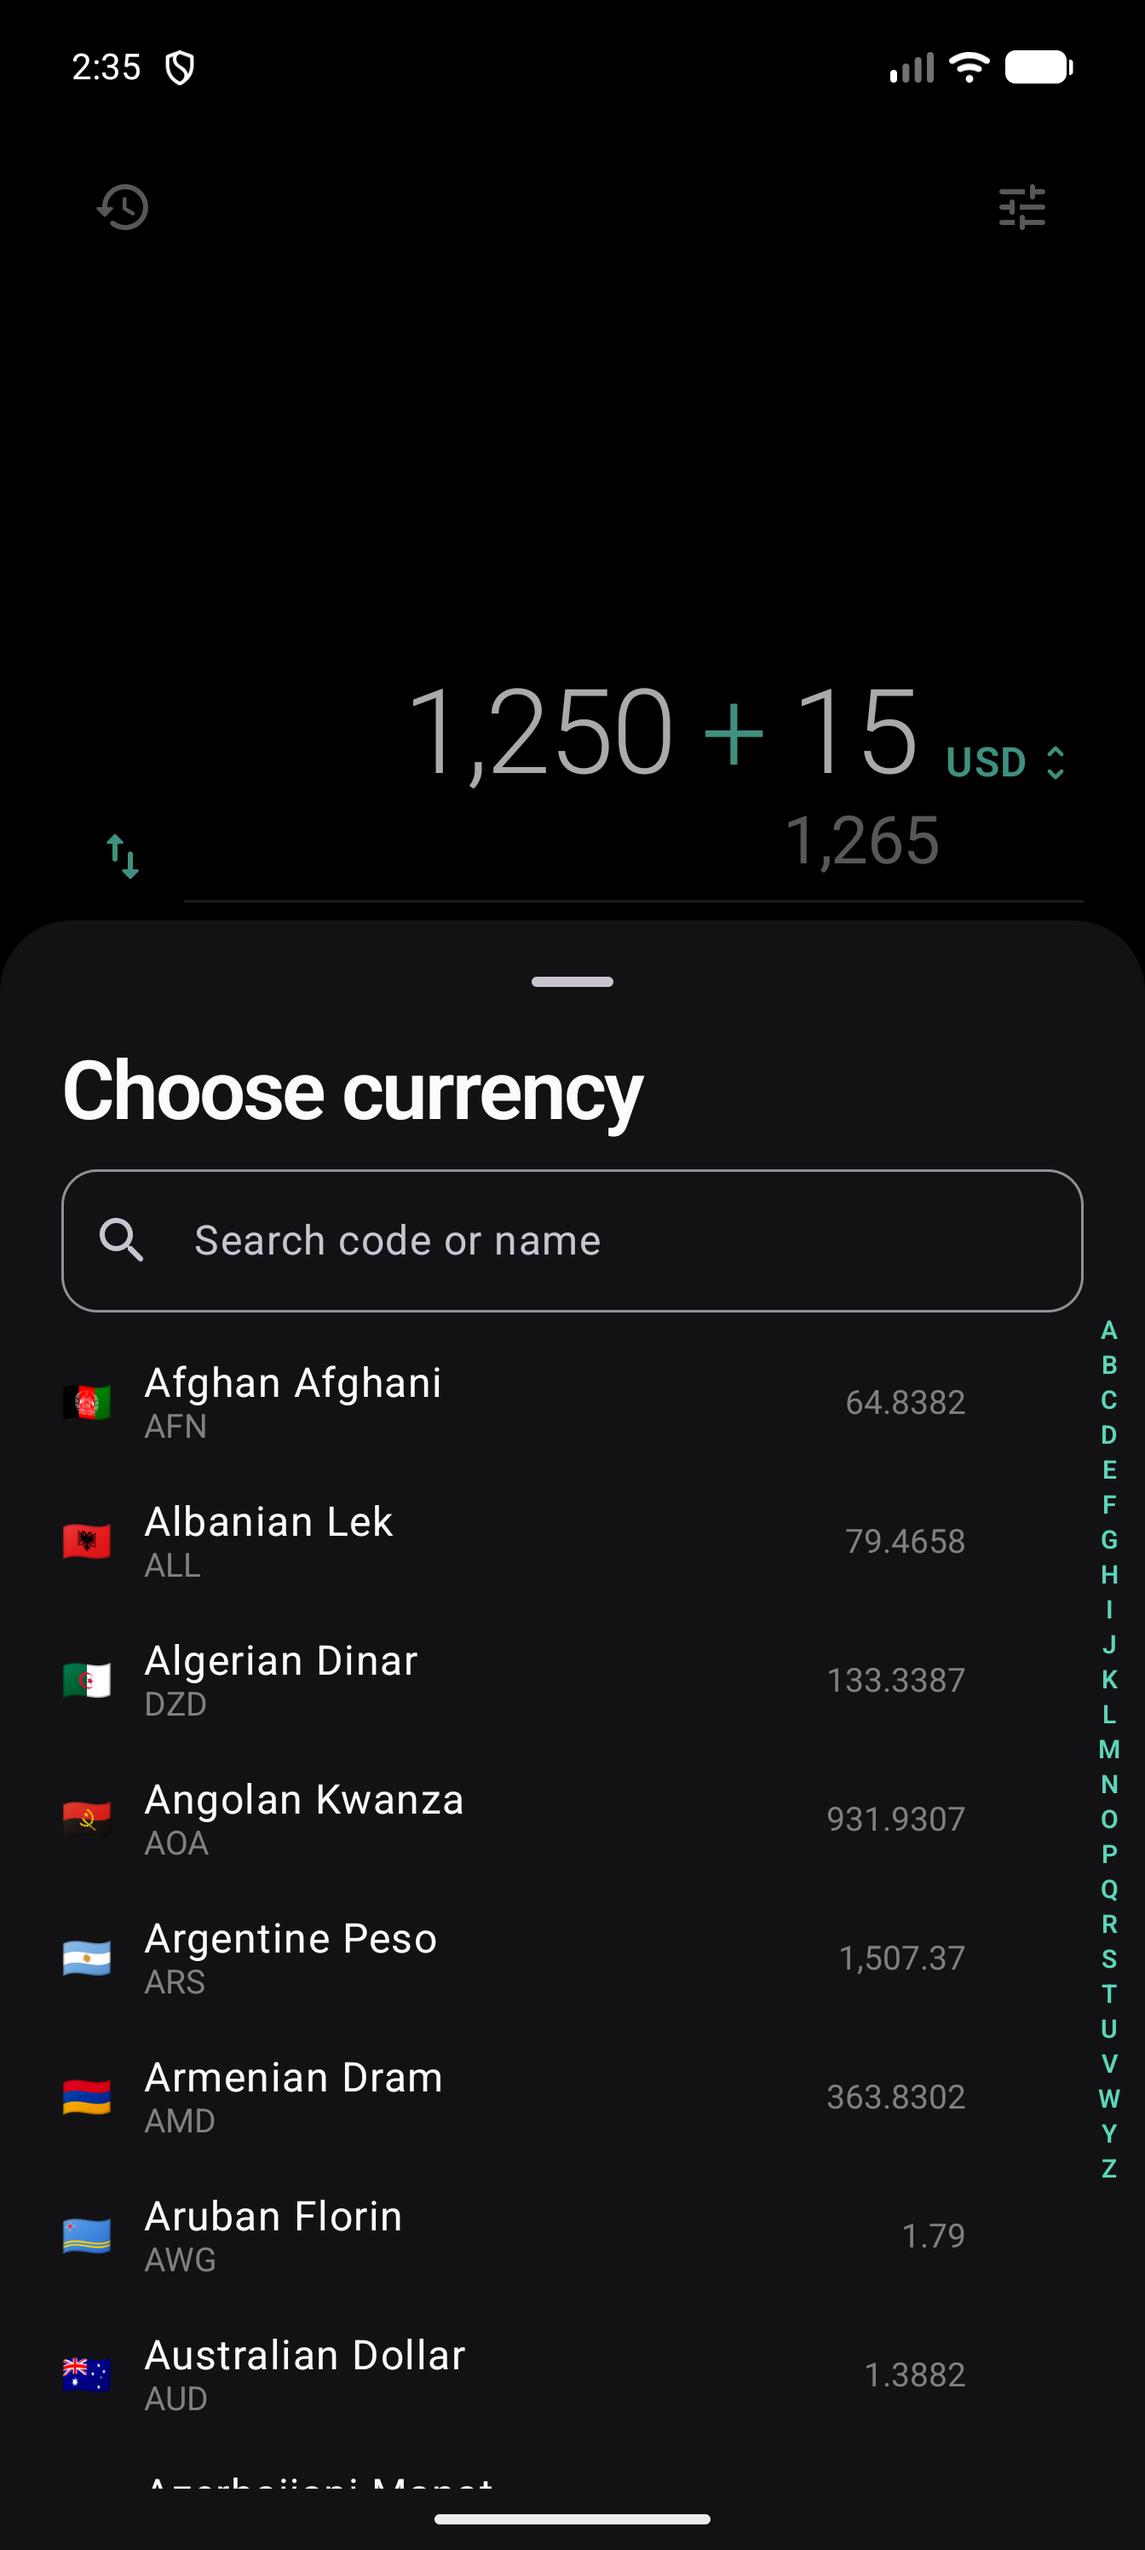
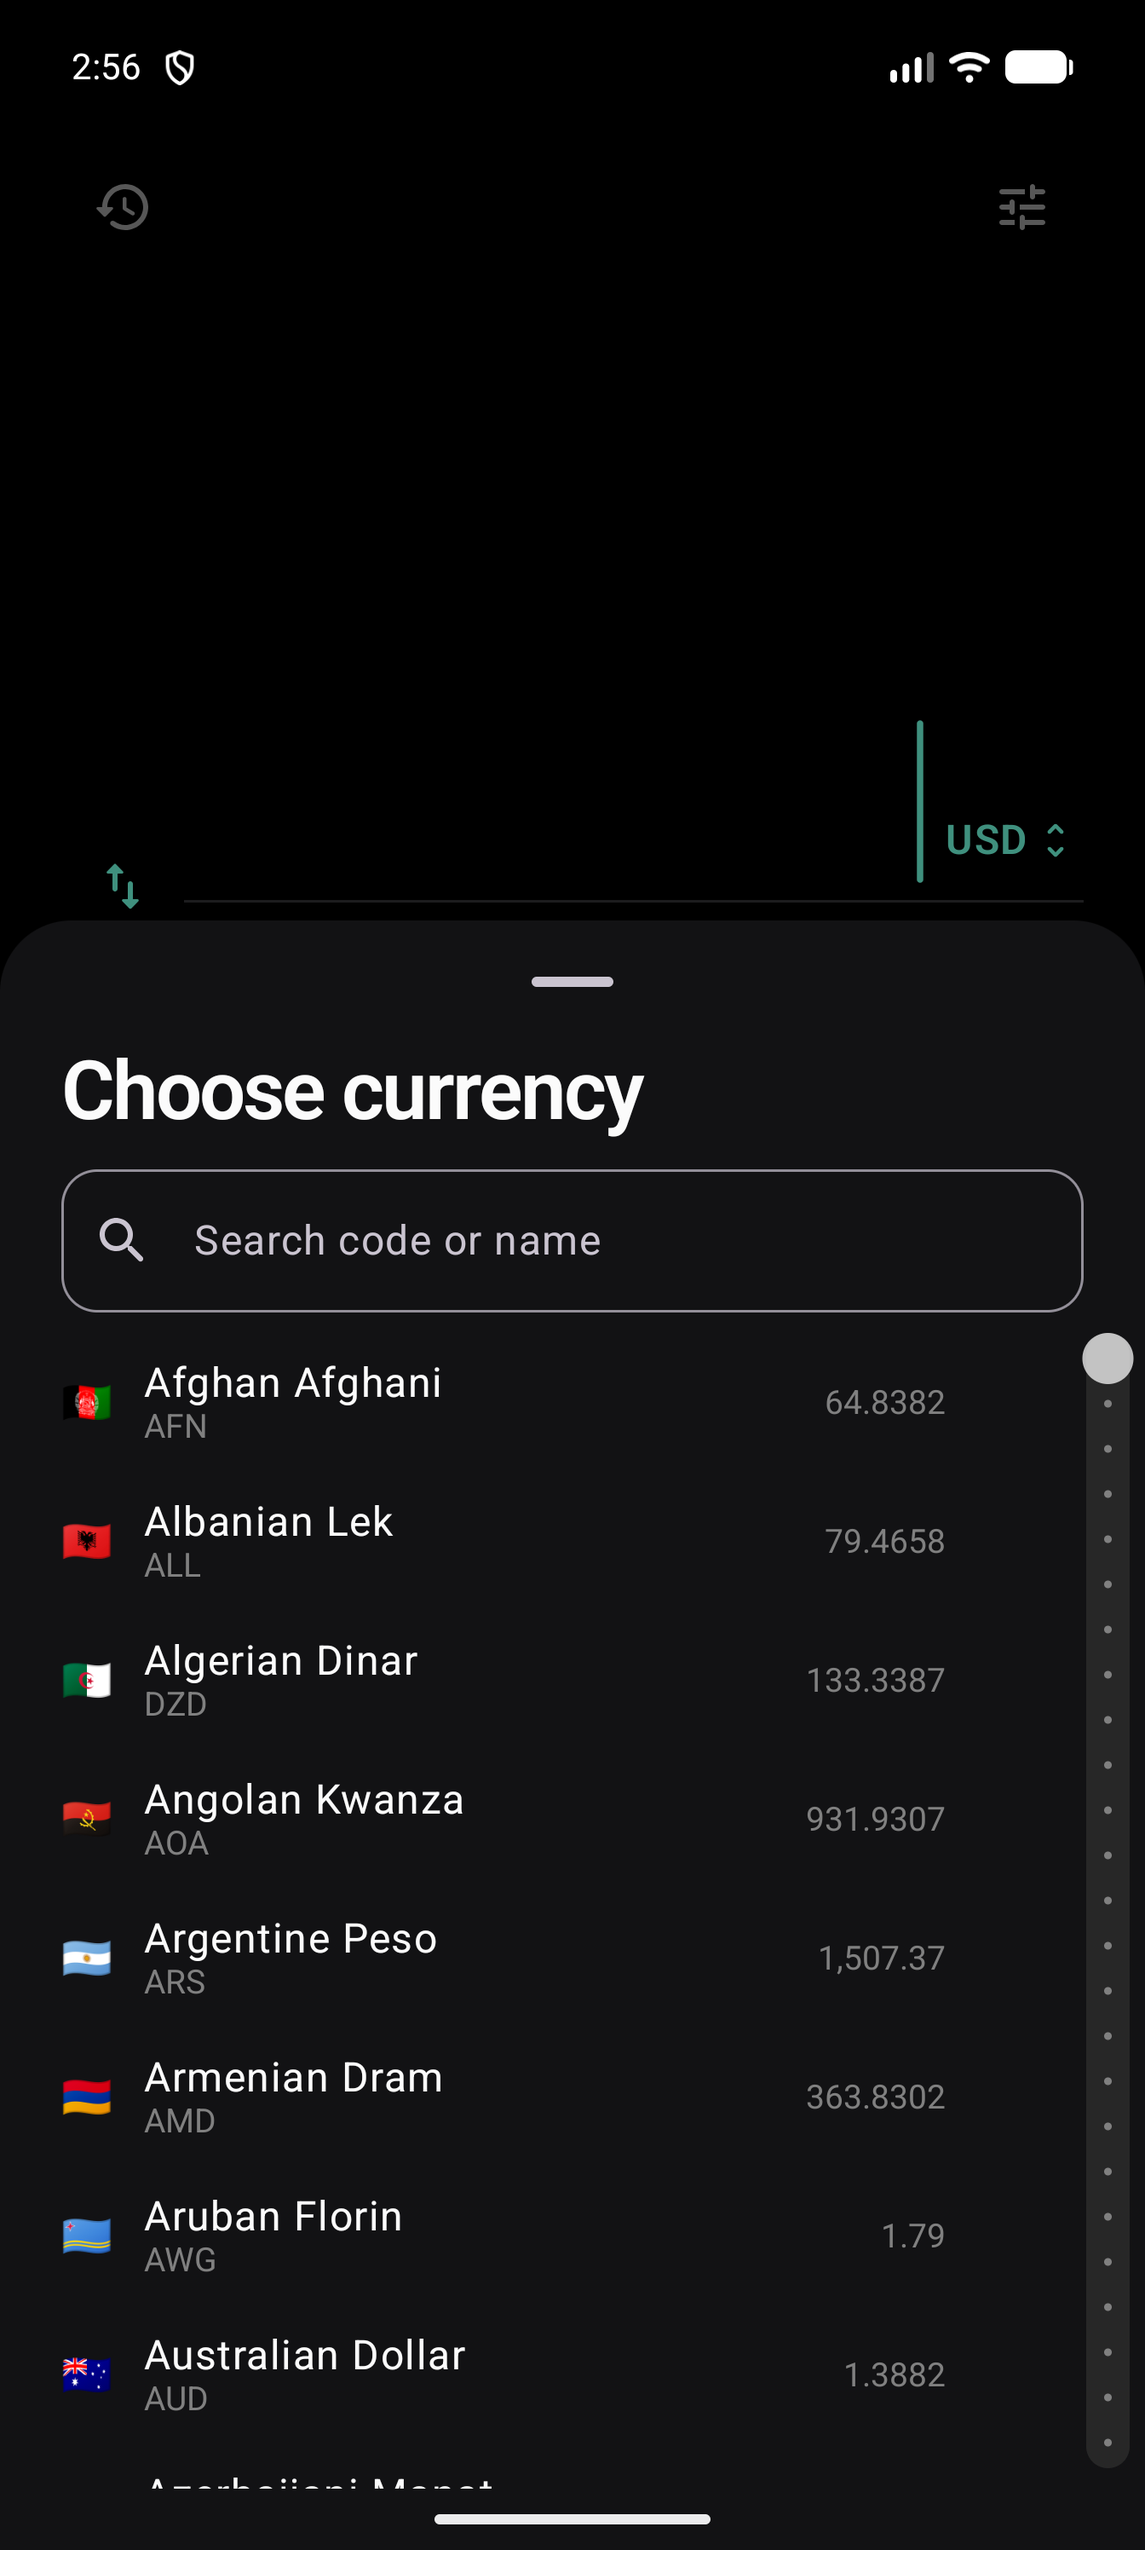
Replace the A-Z letter column with One UI's index scrubber
A stacked column of 26 tappable letters is cramped and imprecise on a list of
160-plus currencies: the targets are a few dp tall and there is no feedback about
where a drag has reached.

The scrubber replaces it, matching the contacts index in One UI. A slim rounded
track carries one dot per section with a thumb that follows the scroll position,
and dragging floats a large filled bubble showing the letter under the finger.
Dragging seeks continuously so the list tracks the finger rather than jumping
only on release, and a tap still jumps straight to a section.

Geometry and tones were measured from the reference recording: a 17dp track, a
20dp thumb, 76dp bubble sitting 22dp clear of the track. The bubble takes
Cambio's jade accent in place of Samsung's blue.

Two details worth recording:
- The bubble needs requiredSize rather than size. Its parent is only as wide as
  the track, so a plain size() is clamped by those constraints and the bubble
  renders as a narrow pill instead of a circle.
- The bubble deliberately hangs outside the track's bounds, over the rows, which
  works because Compose does not clip children to their parent.

Also fixes a display slip: an empty expression showed a redundant "0" as a
running total beneath an empty field. The total now appears only when it says
something the line above does not.

218 unit tests and 20 instrumented tests pass; lint and formatting clean.

diff --git a/app/src/main/java/io/github/angad7600123/cambio/ui/sheets/IndexScrubber.kt b/app/src/main/java/io/github/angad7600123/cambio/ui/sheets/IndexScrubber.kt
@@ -1,0 +1,203 @@
+package io.github.angad7600123.cambio.ui.sheets
+
+import androidx.compose.foundation.Canvas
+import androidx.compose.foundation.background
+import androidx.compose.foundation.gestures.detectTapGestures
+import androidx.compose.foundation.gestures.detectVerticalDragGestures
+import androidx.compose.foundation.layout.Box
+import androidx.compose.foundation.layout.fillMaxHeight
+import androidx.compose.foundation.layout.fillMaxSize
+import androidx.compose.foundation.layout.offset
+import androidx.compose.foundation.layout.requiredSize
+import androidx.compose.foundation.layout.size
+import androidx.compose.foundation.layout.width
+import androidx.compose.foundation.shape.CircleShape
+import androidx.compose.material3.Text
+import androidx.compose.runtime.Composable
+import androidx.compose.runtime.getValue
+import androidx.compose.runtime.mutableStateOf
+import androidx.compose.runtime.remember
+import androidx.compose.runtime.setValue
+import androidx.compose.ui.Alignment
+import androidx.compose.ui.Modifier
+import androidx.compose.ui.draw.clip
+import androidx.compose.ui.geometry.CornerRadius
+import androidx.compose.ui.geometry.Offset
+import androidx.compose.ui.geometry.Size
+import androidx.compose.ui.graphics.drawscope.DrawScope
+import androidx.compose.ui.input.pointer.pointerInput
+import androidx.compose.ui.layout.onSizeChanged
+import androidx.compose.ui.platform.LocalDensity
+import androidx.compose.ui.res.stringResource
+import androidx.compose.ui.semantics.contentDescription
+import androidx.compose.ui.semantics.semantics
+import androidx.compose.ui.text.font.FontWeight
+import androidx.compose.ui.unit.IntOffset
+import androidx.compose.ui.unit.dp
+import androidx.compose.ui.unit.sp
+import io.github.angad7600123.cambio.R
+import io.github.angad7600123.cambio.ui.theme.CambioTextStyles
+import io.github.angad7600123.cambio.ui.theme.CambioTheme
+import kotlin.math.roundToInt
+
+/**
+ * The A–Z scrubber down the edge of the currency list.
+ *
+ * Modelled on One UI's contacts index rather than a column of letters: a slim
+ * rounded track with one dot per section, a thumb that tracks the scroll position,
+ * and — only while dragging — a large filled bubble showing the letter under your
+ * finger. With 160-plus currencies a stack of 26 tappable letters is both cramped
+ * and imprecise; a scrubber gives a continuous, readable target.
+ *
+ * Geometry and tones were measured from the reference recording: a 17dp track, a
+ * 20dp thumb, and a 76dp bubble sitting 22dp clear of the track.
+ *
+ * @param letters the section initials, in order.
+ * @param currentLetter the letter the list is scrolled to, for the resting thumb.
+ * @param onSeek invoked with the letter under the finger, continuously while
+ *   dragging, so the list follows rather than jumping only on release.
+ */
+@Composable
+internal fun IndexScrubber(
+    letters: List<Char>,
+    currentLetter: Char?,
+    onSeek: (Char) -> Unit,
+    modifier: Modifier = Modifier,
+) {
+    if (letters.isEmpty()) return
+
+    val colors = CambioTheme.colors
+    val density = LocalDensity.current
+    var draggedLetter by remember { mutableStateOf<Char?>(null) }
+    var heightPx by remember { mutableStateOf(0) }
+
+    val shown = draggedLetter ?: currentLetter
+    val activeIndex = letters.indexOf(shown).takeIf { it >= 0 } ?: 0
+
+    /** Maps a vertical touch to a letter, clamped to the ends of the track. */
+    fun letterAt(y: Float, height: Int): Char {
+        if (height <= 0) return letters.first()
+        val inset = with(density) { (THUMB_DIAMETER / 2).toPx() }
+        val usable = (height - inset * 2).coerceAtLeast(1f)
+        val fraction = ((y - inset) / usable).coerceIn(0f, 1f)
+        return letters[(fraction * (letters.size - 1)).roundToInt()]
+    }
+
+    val description = stringResource(R.string.cd_alphabet_index)
+
+    Box(
+        modifier = modifier
+            .fillMaxHeight()
+            .width(TRACK_WIDTH)
+            .semantics { contentDescription = description },
+    ) {
+        Canvas(
+            modifier = Modifier
+                .fillMaxSize()
+                .onSizeChanged { heightPx = it.height }
+                .pointerInput(letters) {
+                    detectTapGestures { offset -> onSeek(letterAt(offset.y, size.height)) }
+                }
+                .pointerInput(letters) {
+                    detectVerticalDragGestures(
+                        onDragStart = { offset ->
+                            val letter = letterAt(offset.y, size.height)
+                            draggedLetter = letter
+                            onSeek(letter)
+                        },
+                        onDragEnd = { draggedLetter = null },
+                        onDragCancel = { draggedLetter = null },
+                    ) { change, _ ->
+                        val letter = letterAt(change.position.y, size.height)
+                        if (letter != draggedLetter) {
+                            draggedLetter = letter
+                            onSeek(letter)
+                        }
+                    }
+                },
+        ) {
+            drawTrack(
+                letterCount = letters.size,
+                activeIndex = activeIndex,
+                trackColor = colors.operatorKey,
+                dotColor = colors.textSecondary,
+                thumbColor = colors.onKey.copy(alpha = THUMB_ALPHA),
+            )
+        }
+
+        // The bubble sits outside the track's own width. Compose does not clip to
+        // bounds, so a negative offset lets it hang over the list as One UI's does.
+        if (draggedLetter != null && heightPx > 0) {
+            val inset = with(density) { (THUMB_DIAMETER / 2).toPx() }
+            val usable = (heightPx - inset * 2).coerceAtLeast(1f)
+            val centreY = inset + usable * activeIndex / (letters.size - 1).coerceAtLeast(1)
+            val bubblePx = with(density) { BUBBLE_SIZE.toPx() }
+            val gapPx = with(density) { (BUBBLE_SIZE + BUBBLE_GAP).toPx() }
+
+            Box(
+                modifier = Modifier
+                    .offset {
+                        IntOffset(
+                            x = -gapPx.roundToInt(),
+                            y = (centreY - bubblePx / 2).roundToInt(),
+                        )
+                    }
+                    // requiredSize, not size: the parent is only as wide as the
+                    // track, and a plain size() would be clamped to it and render
+                    // the bubble as a narrow pill.
+                    .requiredSize(BUBBLE_SIZE)
+                    .clip(CircleShape)
+                    .background(colors.accent),
+                contentAlignment = Alignment.Center,
+            ) {
+                Text(
+                    text = draggedLetter.toString(),
+                    style = CambioTextStyles.Display.copy(
+                        fontSize = BUBBLE_TEXT_SIZE,
+                        fontWeight = FontWeight.Normal,
+                    ),
+                    color = colors.onAccent,
+                )
+            }
+        }
+    }
+}
+
+/** Draws the rail, its section dots, and the thumb. */
+private fun DrawScope.drawTrack(
+    letterCount: Int,
+    activeIndex: Int,
+    trackColor: androidx.compose.ui.graphics.Color,
+    dotColor: androidx.compose.ui.graphics.Color,
+    thumbColor: androidx.compose.ui.graphics.Color,
+) {
+    val centreX = size.width / 2
+    val thumbRadius = THUMB_DIAMETER.toPx() / 2
+    val usable = (size.height - thumbRadius * 2).coerceAtLeast(1f)
+
+    drawRoundRect(
+        color = trackColor,
+        topLeft = Offset.Zero,
+        size = Size(size.width, size.height),
+        cornerRadius = CornerRadius(size.width / 2),
+    )
+
+    val divisor = (letterCount - 1).coerceAtLeast(1)
+    repeat(letterCount) { index ->
+        val y = thumbRadius + usable * index / divisor
+        if (index != activeIndex) {
+            drawCircle(color = dotColor, radius = DOT_RADIUS.toPx(), center = Offset(centreX, y))
+        }
+    }
+
+    val thumbY = thumbRadius + usable * activeIndex / divisor
+    drawCircle(color = thumbColor, radius = thumbRadius, center = Offset(centreX, thumbY))
+}
+
+private val TRACK_WIDTH = 17.dp
+private val THUMB_DIAMETER = 20.dp
+private val DOT_RADIUS = 1.5.dp
+private val BUBBLE_SIZE = 76.dp
+private val BUBBLE_GAP = 22.dp
+private val BUBBLE_TEXT_SIZE = 34.sp
+private const val THUMB_ALPHA = 0.72f

diff --git a/app/src/main/java/io/github/angad7600123/cambio/ui/sheets/CurrencyPickerSheet.kt b/app/src/main/java/io/github/angad7600123/cambio/ui/sheets/CurrencyPickerSheet.kt
@@ -20,6 +20,7 @@ import androidx.compose.material3.Icon
 import androidx.compose.material3.OutlinedTextField
 import androidx.compose.material3.Text
 import androidx.compose.runtime.Composable
+import androidx.compose.runtime.derivedStateOf
 import androidx.compose.runtime.getValue
 import androidx.compose.runtime.mutableStateOf
 import androidx.compose.runtime.remember
@@ -31,9 +32,7 @@ import androidx.compose.ui.res.stringResource
 import androidx.compose.ui.semantics.contentDescription
 import androidx.compose.ui.semantics.semantics
 import androidx.compose.ui.text.font.FontWeight
-import androidx.compose.ui.text.style.TextAlign
 import androidx.compose.ui.unit.dp
-import androidx.compose.ui.unit.sp
 import io.github.angad7600123.cambio.R
 import io.github.angad7600123.cambio.currency.ConversionEngine
 import io.github.angad7600123.cambio.currency.CurrencyInfo
@@ -70,6 +69,7 @@ fun CurrencyPickerContent(
     val numberFormatter = remember { NumberDisplayFormatter() }
     val listState = rememberLazyListState()
     val scope = rememberCoroutineScope()
+    val firstVisible by remember { derivedStateOf { listState.firstVisibleItemIndex } }
 
     // What one unit of the source currency is worth in each row's currency.
     // Computed once per sheet rather than on every recomposition.
@@ -132,12 +132,14 @@ fun CurrencyPickerContent(
             return@Column
         }
 
-        Row(modifier = Modifier.heightIn(max = LIST_MAX_HEIGHT)) {
+        // The scrubber overlays the list rather than sitting beside it, so its
+        // bubble can hang over the rows the way One UI's does.
+        Box(modifier = Modifier.heightIn(max = LIST_MAX_HEIGHT)) {
             LazyColumn(
                 state = listState,
                 modifier = Modifier
-                    .weight(1f)
-                    .padding(top = 8.dp),
+                    .fillMaxWidth()
+                    .padding(top = 8.dp, end = SCRUBBER_INSET),
             ) {
                 if (visibleRecents.isNotEmpty()) {
                     item { SectionHeader(stringResource(R.string.currency_section_recent)) }
@@ -166,49 +168,26 @@ fun CurrencyPickerContent(
             }
 
             if (query.isBlank() && letterOffsets.isNotEmpty()) {
-                AlphabetRail(
-                    letters = letterOffsets.keys.sorted(),
-                    onLetter = { letter ->
+                val letters = remember(letterOffsets) { letterOffsets.keys.sorted() }
+                // Which section the list is resting on, so the thumb reflects the
+                // scroll rather than only the last letter that was dragged to.
+                val currentLetter = remember(firstVisible, letters, letterOffsets) {
+                    letters.lastOrNull { letterOffsets.getValue(it) <= firstVisible }
+                }
+
+                IndexScrubber(
+                    letters = letters,
+                    currentLetter = currentLetter,
+                    onSeek = { letter ->
                         letterOffsets[letter]?.let { index ->
                             scope.launch { listState.scrollToItem(index) }
                         }
                     },
+                    modifier = Modifier
+                        .align(Alignment.CenterEnd)
+                        .padding(end = 6.dp, top = 8.dp, bottom = 8.dp),
                 )
             }
-        }
-    }
-}
-
-/**
- * The A–Z rail down the right edge.
- *
- * With 160-plus currencies, scrolling to "Swiss Franc" by flinging is tedious; the
- * rail turns it into one tap.
- */
-@Composable
-private fun AlphabetRail(letters: List<Char>, onLetter: (Char) -> Unit) {
-    val colors = CambioTheme.colors
-    val description = stringResource(R.string.cd_alphabet_index)
-
-    Column(
-        modifier = Modifier
-            .width(RAIL_WIDTH)
-            .padding(end = 6.dp)
-            .semantics { contentDescription = description },
-        horizontalAlignment = Alignment.CenterHorizontally,
-        verticalArrangement = Arrangement.Center,
-    ) {
-        letters.forEach { letter ->
-            Text(
-                text = letter.toString(),
-                style = CambioTextStyles.Meta.copy(fontSize = RAIL_TEXT_SIZE, fontWeight = FontWeight.SemiBold),
-                color = colors.accentText,
-                textAlign = TextAlign.Center,
-                modifier = Modifier
-                    .fillMaxWidth()
-                    .clickable { onLetter(letter) }
-                    .padding(vertical = 1.dp),
-            )
         }
     }
 }
@@ -300,6 +279,7 @@ private fun List<CurrencyInfo>.filterByQuery(query: String): List<CurrencyInfo> 
 private const val PLACEHOLDER_FLAG = "🏳"
 private val SEARCH_RADIUS = 14.dp
 private val LIST_MAX_HEIGHT = 460.dp
-private val RAIL_WIDTH = 22.dp
+
+/** Keeps row content clear of the scrubber track. */
+private val SCRUBBER_INSET = 30.dp
 private val TICK_COLUMN = 28.dp
-private val RAIL_TEXT_SIZE = 10.sp

diff --git a/app/src/main/java/io/github/angad7600123/cambio/ui/CalculatorViewModel.kt b/app/src/main/java/io/github/angad7600123/cambio/ui/CalculatorViewModel.kt
@@ -281,8 +281,14 @@ class CalculatorViewModel(
             // grouping and operator glyphs while keeping the caret aligned.
             activeText = input.expression,
             activeCursor = input.cursor,
-            // Suppress the running total when it would only repeat the figure above.
-            activePreview = if (isEditing && previewText != groupingOf(input.expression)) {
+            // The running total is shown only when it says something the line above
+            // does not: not for an empty field, and not when it would merely repeat
+            // the figure already displayed.
+            activePreview = if (
+                isEditing &&
+                input.expression.isNotEmpty() &&
+                previewText != groupingOf(input.expression)
+            ) {
                 previewText
             } else {
                 ""

diff --git a/README.md b/README.md
@@ -70,7 +70,7 @@ into.
   one, the idle one greys out. Values carry across when you switch, so nothing is
   lost
 - Swap direction with one tap; searchable picker by code *or* name, with recents
-  pinned, an A–Z rail, and each row previewing its live rate
+  pinned, an A–Z scrubber with a letter bubble, and each row previewing its rate
 - Amounts rounded to each currency's real minor units — 2 for USD, **0 for JPY**,
   **3 for KWD** — escalating precision so a tiny amount never renders as a
   misleading `0.00`
